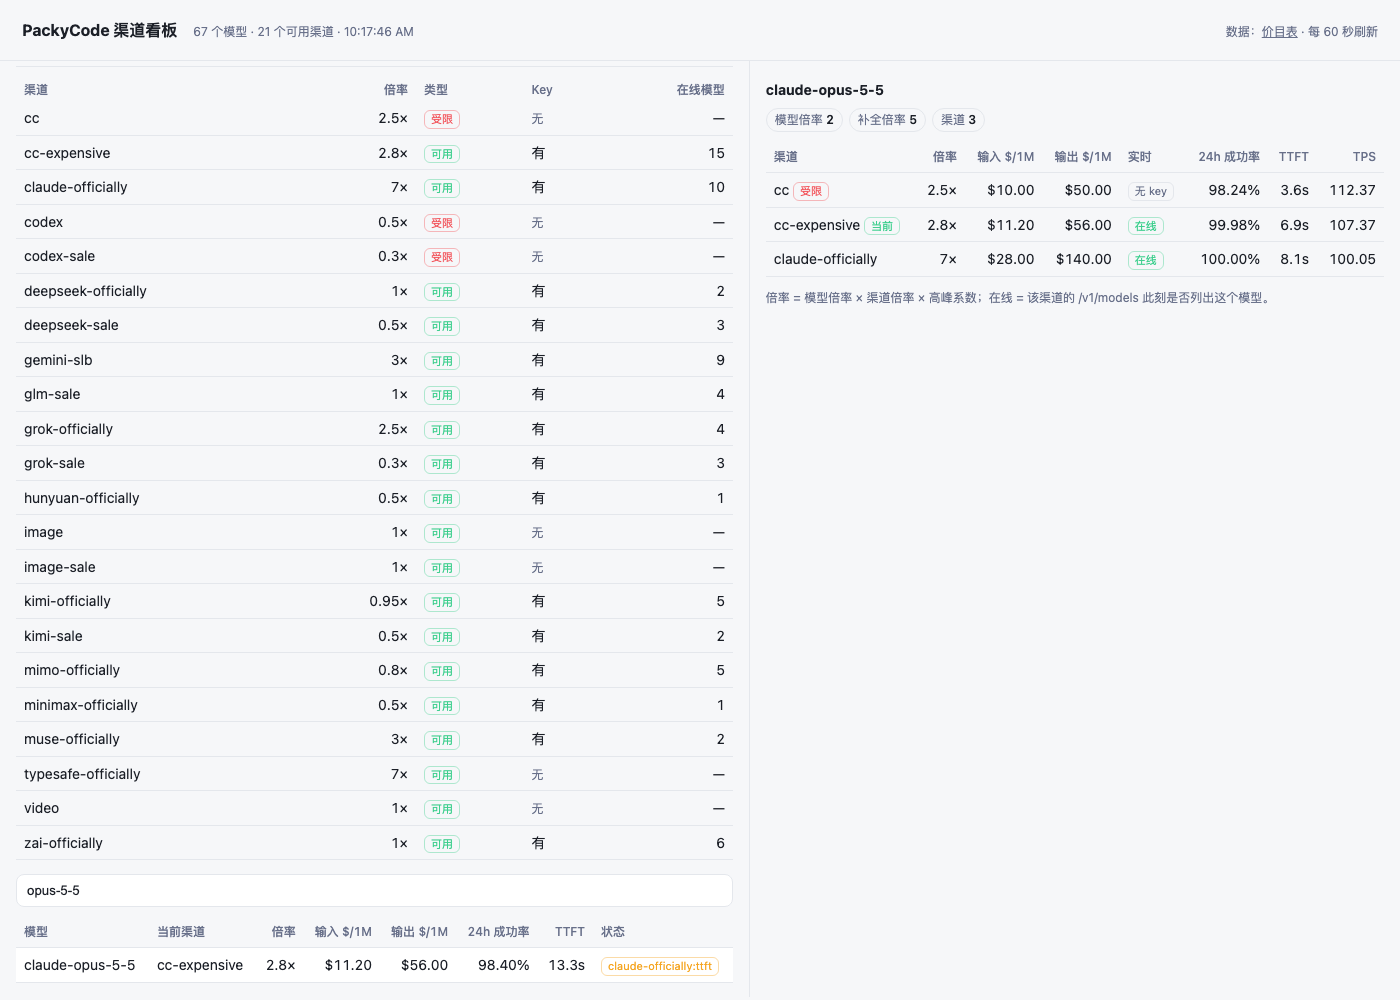
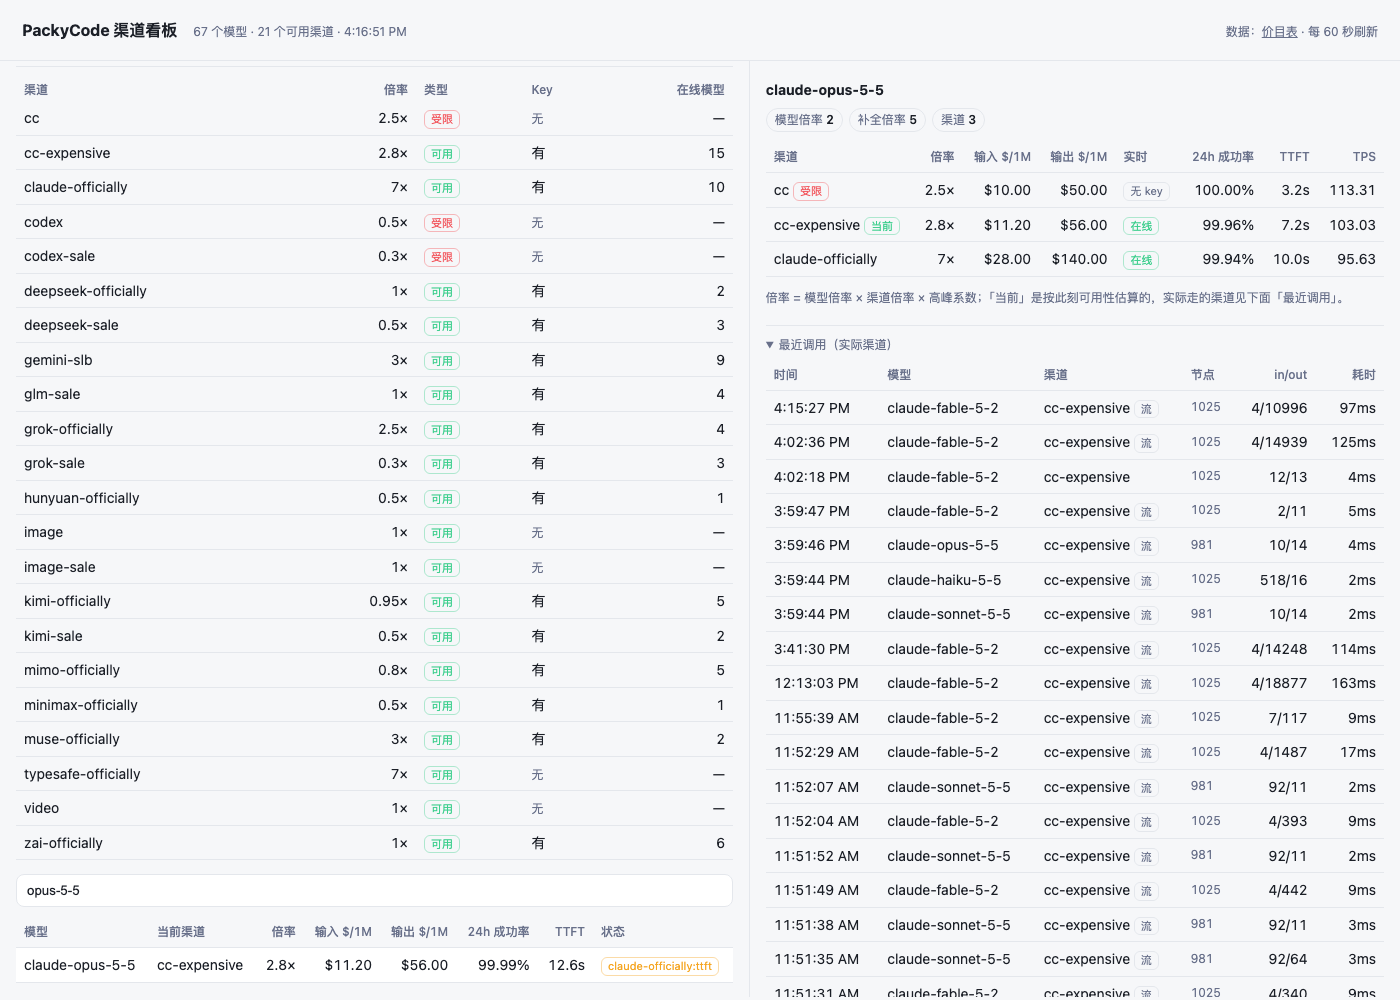
drop the channel from model names; the dashboard shows the real one (0.5.0)
The suffix was a snapshot: magpie builds the model list hourly and the
request path can move to another channel as groups cool or recover, so a
name saying 'cc-expensive' could be wrong by the time a request goes out.
Model names are plain again.

The dashboard answers the question with facts instead: '最近调用' reads the
console's /api/log/self and lists each request's actual group, node, token
count and time, beside the per-model table of every channel's price and
live state.

diff --git a/README.md b/README.md
@@ -162,11 +162,13 @@ magpie plugin login packycode
 
 ## 界面上的渠道价
 
-模型列表里每个模型都会带上「它现在会走哪个渠道、什么价」：
+模型列表里每个模型会带上它的**价格**：
 
-- **模型名后的分组**：`Claude Opus 5.5 · cc-expensive`（选项 `show_group` 可关）；
 - **倍率标签**：`2.8×`，旁边删除线的 `7×` 是「不走最便宜分组、走官方分组」的价格；
 - **模型编辑器的价格框**：该分组下的 `$/1M` 输入价，Usage 页也按它估算。
+
+> 模型名后**不写渠道名**：模型列表是每小时刷新的快照，实际请求会随可用性/冷却动态换渠道，写在名字上会过时。
+> 想看实际走的渠道，用下面的渠道看板（「当前」是按可用性估算，「最近调用」是站方日志里的真实渠道）。
 
 ## 渠道看板（本地页面）
 
@@ -187,9 +189,11 @@ PORT=4000 npm run dashboard  # 换端口
 - `/api/perf-metrics?model=<模型>&hours=24`：某个模型**按渠道**的成功率、TTFT、TPS；
 - 每个渠道的 `GET /v1/models`（用插件为该分组建的 key）：此刻是否有可用渠道（在线/无渠道/无 key）。
 
-左边模型列表（当前渠道、倍率、输入/输出价、24h 成功率、告警），点一个模型，右边列出它**所有渠道**的
-倍率、价格、实时状态、24h 成功率和延迟。数据每 60 秒刷新，控制台需要代理时会自动读 `HTTPS_PROXY`
-或 macOS 的 `scutil --proxy`。
+左边是渠道概览与模型列表（估算的当前渠道、倍率、输入/输出价、24h 成功率、告警）。点一个模型，右边列出它
+**所有渠道**的倍率、价格、实时状态、24h 成功率和延迟；右下角「最近调用」直接读站方 `/api/log/self`，
+显示每次请求**实际**走的渠道、节点、token 用量和耗时。
+
+数据每 60 秒刷新（最近调用 30 秒），控制台需要代理时会自动读 `HTTPS_PROXY` 或 macOS 的 `scutil --proxy`。
 
 ## 它是怎么选路的
 
